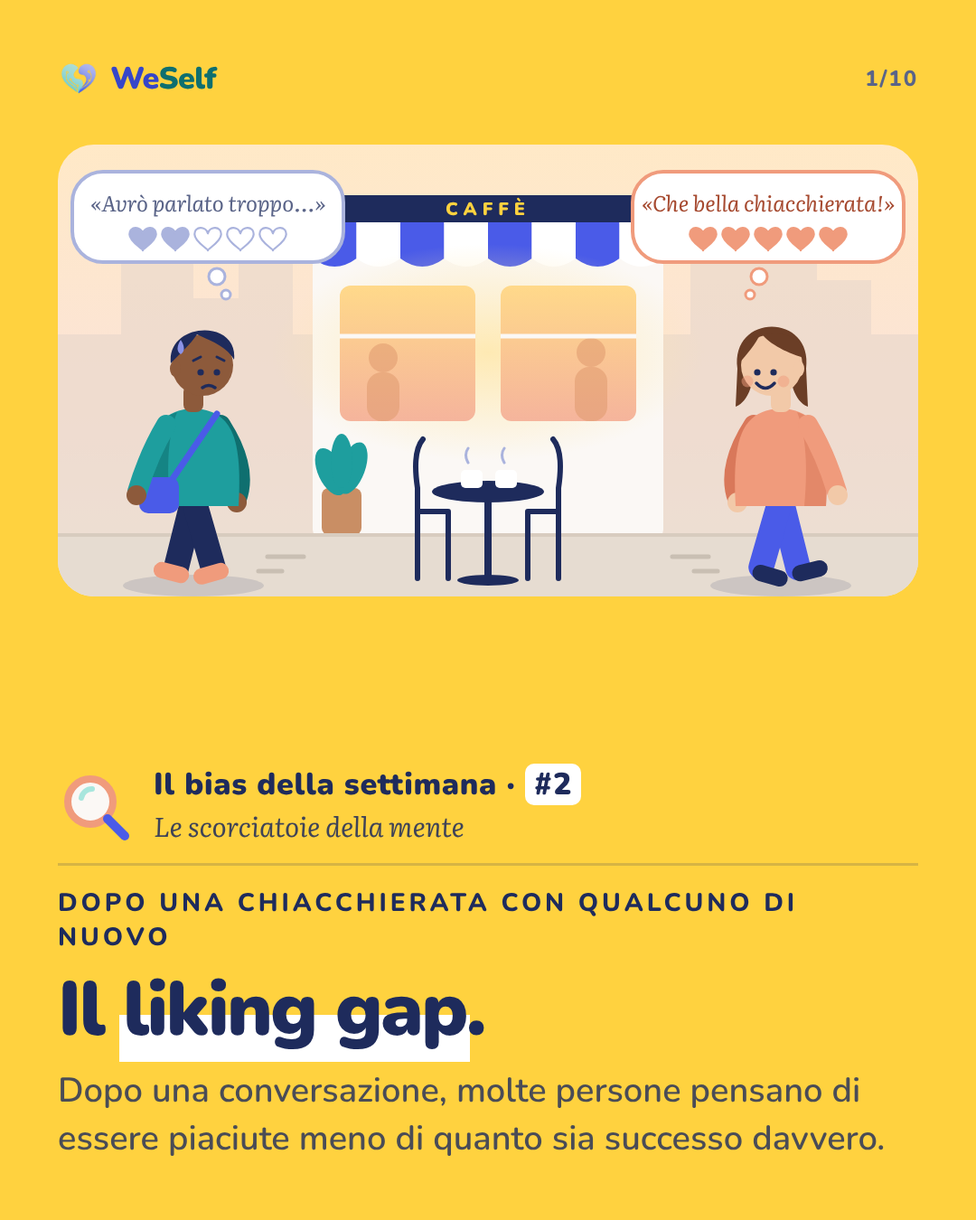
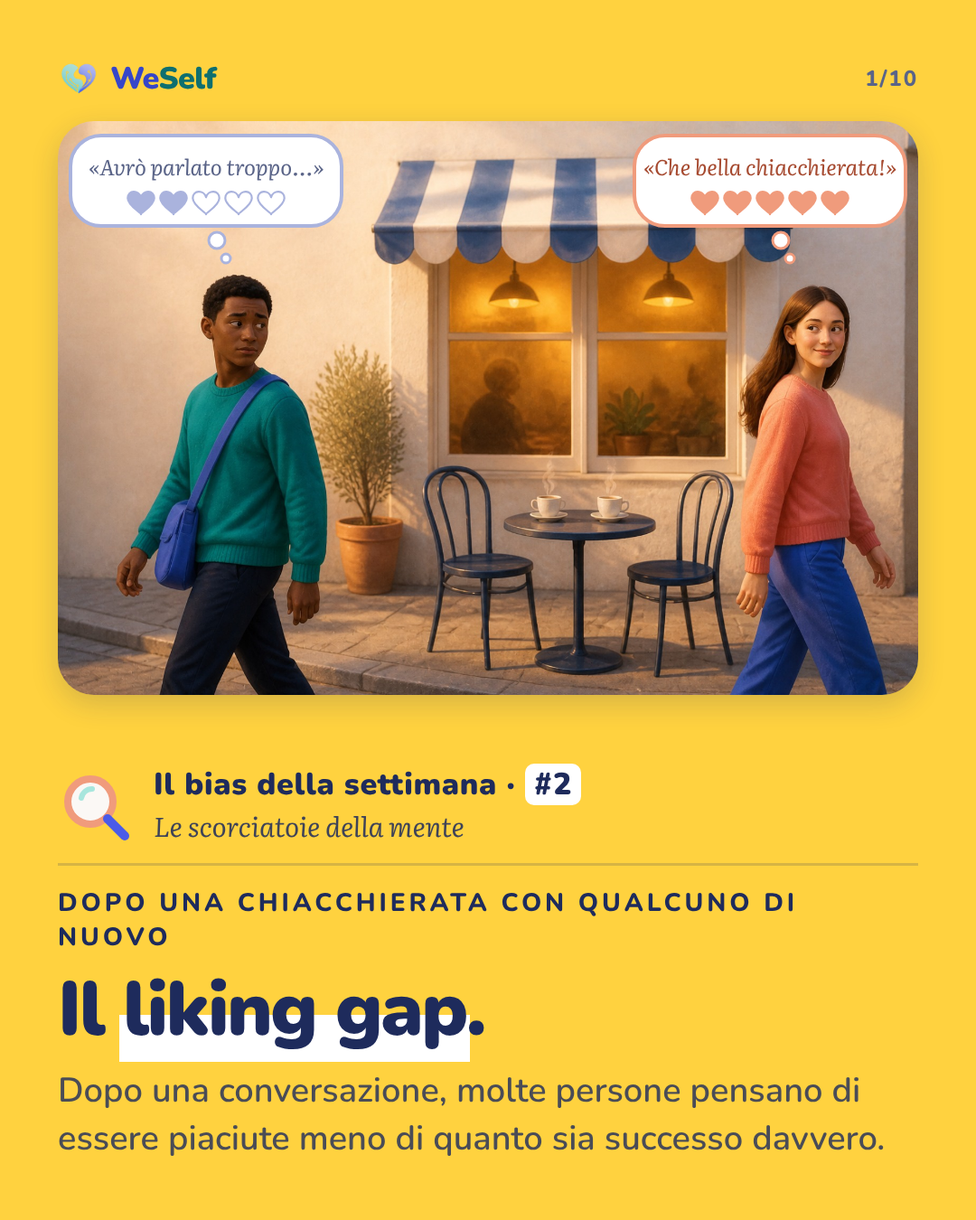
Bias #2: realistic cover illustration drawn with Canva, AI-label note in kit
Claude-Session: https://claude.ai/code/session_01KYQeP73Zvn8PeP6zhkL2Sc

diff --git a/carosselli/bias-02-liking-gap/slides.html b/carosselli/bias-02-liking-gap/slides.html
@@ -179,16 +179,14 @@ Inner slides: <div class="top"><p class="ep">LENS-small Bias #1 · Titolo sezion
 .vs p{font-family:'Literata',serif;font-style:italic;font-size:29px;line-height:1.35}
 .vs .me{background:var(--coral-soft)}.vs .me small{color:var(--coral-text)}
 .vs .you{background:var(--teal-soft)}.vs .you small{color:var(--teal-text)}
+.ill{position:relative;margin-top:24px;align-self:center;width:952px;height:635px;border-radius:40px;overflow:hidden;box-shadow:0 10px 30px rgba(30,43,92,.18)}
+.ill img{width:100%;height:100%;object-fit:cover;display:block}
+.ill svg{position:absolute;left:0;top:0}
 </style>
 
 <section class="slide biascover" id="s1">
   <div class="top"><div class="brand"><img src="weself-mark.png"><span><span class="we">We</span><span class="self">Self</span></span></div><div class="count">1/10</div></div>
-  <svg width="952" height="600" viewBox="0 0 952 600" style="display:block;margin-top:10px;align-self:center"><defs>
-<linearGradient id="lk-sky" x1="0" y1="0" x2="0" y2="1"><stop offset="0" stop-color="#FFE9C7"/><stop offset=".6" stop-color="#FBE3D8"/><stop offset="1" stop-color="#F3EEE8"/></linearGradient>
-<linearGradient id="lk-win" x1="0" y1="0" x2="0" y2="1"><stop offset="0" stop-color="#FFD98A"/><stop offset="1" stop-color="#F5B49C"/></linearGradient>
-<radialGradient id="lk-glow" cx=".5" cy=".5" r=".5"><stop offset="0" stop-color="#FFE7A8" stop-opacity=".85"/><stop offset="1" stop-color="#FFE7A8" stop-opacity="0"/></radialGradient>
-<clipPath id="lk-card"><rect x="0" y="40" width="952" height="500" rx="40"/></clipPath>
-</defs><g clip-path="url(#lk-card)"><rect x="0" y="40" width="952" height="500" fill="url(#lk-sky)"/><path d="M0 250 H70 V170 H150 V210 H200 V140 H260 V250 H952 V540 H0Z" fill="#EAD9CC" opacity=".7"/><path d="M700 250 V160 H770 V120 H840 V190 H900 V250Z" fill="#EAD9CC" opacity=".7"/><rect x="282" y="96" width="388" height="380" rx="10" fill="#FBF8F5"/><rect x="282" y="96" width="388" height="30" fill="#1E2B5C"/><text x="476" y="118" text-anchor="middle" font-family="Nunito" font-weight="900" font-size="20" fill="#FFD23F" letter-spacing="6">CAFFÈ</text><path d="M282.0 126 h48.5 v40 q-24.25 18 -48.5 0z" fill="#4A5BE8"/><path d="M330.5 126 h48.5 v40 q-24.25 18 -48.5 0z" fill="#FFFFFF"/><path d="M379.0 126 h48.5 v40 q-24.25 18 -48.5 0z" fill="#4A5BE8"/><path d="M427.5 126 h48.5 v40 q-24.25 18 -48.5 0z" fill="#FFFFFF"/><path d="M476.0 126 h48.5 v40 q-24.25 18 -48.5 0z" fill="#4A5BE8"/><path d="M524.5 126 h48.5 v40 q-24.25 18 -48.5 0z" fill="#FFFFFF"/><path d="M573.0 126 h48.5 v40 q-24.25 18 -48.5 0z" fill="#4A5BE8"/><path d="M621.5 126 h48.5 v40 q-24.25 18 -48.5 0z" fill="#FFFFFF"/><ellipse cx="476" cy="270" rx="240" ry="120" fill="url(#lk-glow)"/><rect x="312" y="196" width="150" height="150" rx="12" fill="url(#lk-win)"/><rect x="490" y="196" width="150" height="150" rx="12" fill="url(#lk-win)"/><g fill="#E09A6E" opacity=".55"><circle cx="360" cy="276" r="16"/><rect x="342" y="292" width="36" height="54" rx="16"/><circle cx="590" cy="270" r="16"/><rect x="572" y="286" width="36" height="60" rx="16"/></g><path d="M312 252 H462 M490 252 H640" stroke="#FBF8F5" stroke-width="5"/><rect x="292" y="420" width="44" height="52" rx="8" fill="#C98E64"/><g fill="#1E9E9E"><ellipse cx="302" cy="402" rx="14" ry="28" transform="rotate(-25 302 402)"/><ellipse cx="326" cy="398" rx="14" ry="30" transform="rotate(20 326 398)"/><ellipse cx="314" cy="390" rx="12" ry="30"/></g><rect x="0" y="472" width="952" height="70" fill="#E6DCD1"/><path d="M0 472 H952" stroke="#D8CCBF" stroke-width="4"/><g stroke="#1E2B5C" stroke-width="6" fill="none" stroke-linecap="round"><path d="M398 420 v100 M398 446 h34 M432 446 v74 M398 420 q-6 -40 6 -54"/><path d="M554 420 v100 M554 446 h-34 M520 446 v74 M554 420 q6 -40 -6 -54"/></g><ellipse cx="476" cy="424" rx="62" ry="12" fill="#1E2B5C"/><rect x="472" y="424" width="8" height="96" fill="#1E2B5C"/><ellipse cx="476" cy="522" rx="34" ry="6" fill="#1E2B5C"/><rect x="446" y="400" width="24" height="20" rx="5" fill="#FFFFFF"/><rect x="484" y="400" width="24" height="20" rx="5" fill="#FFFFFF"/><path d="M454 392 q-5 -9 0 -16 M494 392 q-5 -9 0 -16" fill="none" stroke="#AAB3DD" stroke-width="3" stroke-linecap="round"/><path d="M232 496 h40 M222 512 h26" stroke="#C9BFB3" stroke-width="5" stroke-linecap="round"/><path d="M720 496 h-40 M730 512 h-26" stroke="#C9BFB3" stroke-width="5" stroke-linecap="round"/><ellipse cx="150" cy="528" rx="78" ry="12" fill="#1E2B5C" opacity=".13"/><g transform="rotate(14 150 432)"><rect x="136" y="430" width="28" height="94" rx="13" fill="#1E2B5C"/><rect x="126" y="508" width="40" height="18" rx="9" fill="#F09B7C"/></g><g transform="rotate(-16 150 432)"><rect x="136" y="430" width="28" height="94" rx="13" fill="#1E2B5C"/><rect x="126" y="508" width="40" height="18" rx="9" fill="#F09B7C"/></g><path d="M180 350 C202 384 206 410 198 432" fill="none" stroke="#0F6F6F" stroke-width="22" stroke-linecap="round"/><circle cx="198" cy="436" r="11" fill="#8D5A3B"/><path d="M100 440 C96 366 106 334 150 332 C194 334 204 366 200 440 Z" fill="#1E9E9E"/><path d="M132 336 C104 344 96 380 100 440 L124 440 C120 396 122 360 132 336Z" fill="#0F6F6F" opacity=".55"/><path d="M176 338 L120 420" stroke="#4A5BE8" stroke-width="7" stroke-linecap="round"/><rect x="90" y="408" width="44" height="40" rx="10" fill="#4A5BE8"/><path d="M120 350 C102 380 94 404 88 424" fill="none" stroke="#1E9E9E" stroke-width="22" stroke-linecap="round"/><circle cx="87" cy="428" r="11" fill="#8D5A3B"/><rect x="139" y="306" width="22" height="30" rx="8" fill="#8D5A3B"/><circle cx="160" cy="284" r="34" fill="#8D5A3B"/><ellipse cx="130" cy="288" rx="6" ry="9" fill="#8D5A3B"/><path d="M125 282 C120 236 200 232 195 278 C186 262 166 256 154 250 C146 262 136 270 125 282Z" fill="#1E2B5C"/><circle cx="158" cy="292" r="3.6" fill="#1E2B5C"/><circle cx="176" cy="292" r="3.6" fill="#1E2B5C"/><path d="M150 279 l8 -4 M184 279 l-8 -4" stroke="#1E2B5C" stroke-width="3" stroke-linecap="round"/><path d="M160 309 q7 -5 14 0" fill="none" stroke="#1E2B5C" stroke-width="3.5" stroke-linecap="round"/><path d="M136 256 q7 11 0 16 q-7 -5 0 -16z" fill="#8B93E8"/><ellipse cx="800" cy="528" rx="78" ry="12" fill="#1E2B5C" opacity=".13"/><g transform="rotate(-14 800 432)"><rect x="786" y="430" width="28" height="94" rx="13" fill="#4A5BE8"/><rect x="792" y="508" width="40" height="18" rx="9" fill="#1E2B5C"/></g><g transform="rotate(16 800 432)"><rect x="786" y="430" width="28" height="94" rx="13" fill="#4A5BE8"/><rect x="792" y="508" width="40" height="18" rx="9" fill="#1E2B5C"/></g><path d="M770 350 C748 384 744 410 752 432" fill="none" stroke="#D9785A" stroke-width="22" stroke-linecap="round"/><circle cx="752" cy="436" r="11" fill="#F2C9A8"/><path d="M750 440 C746 366 756 334 800 332 C844 334 854 366 850 440 Z" fill="#F09B7C"/><path d="M818 336 C846 344 854 380 850 440 L826 440 C830 396 828 360 818 336Z" fill="#D9785A" opacity=".55"/><path d="M830 350 C848 380 856 404 862 424" fill="none" stroke="#F09B7C" stroke-width="22" stroke-linecap="round"/><circle cx="863" cy="428" r="11" fill="#F2C9A8"/><rect x="789" y="306" width="22" height="30" rx="8" fill="#F2C9A8"/><path d="M752 288 C744 226 836 226 828 288 L830 330 C814 324 810 300 808 280 L772 280 C770 300 766 324 750 330 Z" fill="#6B3E26"/><circle cx="790" cy="284" r="34" fill="#F2C9A8"/><ellipse cx="820" cy="288" rx="6" ry="9" fill="#F2C9A8"/><path d="M754 282 C754 240 826 238 826 276 C804 270 784 258 778 248 C772 262 762 272 754 282Z" fill="#6B3E26"/><circle cx="774" cy="292" r="3.6" fill="#1E2B5C"/><circle cx="792" cy="292" r="3.6" fill="#1E2B5C"/><path d="M773 304 q10 11 20 0" fill="none" stroke="#1E2B5C" stroke-width="3.5" stroke-linecap="round"/><circle cx="763" cy="302" r="6.5" fill="#F09B7C" opacity=".5"/><circle cx="803" cy="302" r="6.5" fill="#F09B7C" opacity=".5"/></g><g><rect x="16" y="70" width="300" height="100" rx="34" fill="#FFFFFF" stroke="#AAB3DD" stroke-width="4"/><text x="166.0" y="114" text-anchor="middle" font-family="Literata" font-style="italic" font-size="24" fill="#5A6488">«Avrò parlato troppo…»</text><path transform="translate(94.0 132) scale(1.05)" d="M0 6 C-2 -2 -14 -2 -14 7 C-14 15 0 22 0 24 C0 22 14 15 14 7 C14 -2 2 -2 0 6Z" fill="#AAB3DD" stroke="#AAB3DD" stroke-width="2.10" stroke-linejoin="round"/><path transform="translate(130.0 132) scale(1.05)" d="M0 6 C-2 -2 -14 -2 -14 7 C-14 15 0 22 0 24 C0 22 14 15 14 7 C14 -2 2 -2 0 6Z" fill="#AAB3DD" stroke="#AAB3DD" stroke-width="2.10" stroke-linejoin="round"/><path transform="translate(166.0 132) scale(1.05)" d="M0 6 C-2 -2 -14 -2 -14 7 C-14 15 0 22 0 24 C0 22 14 15 14 7 C14 -2 2 -2 0 6Z" fill="#FFFFFF" stroke="#AAB3DD" stroke-width="2.10" stroke-linejoin="round"/><path transform="translate(202.0 132) scale(1.05)" d="M0 6 C-2 -2 -14 -2 -14 7 C-14 15 0 22 0 24 C0 22 14 15 14 7 C14 -2 2 -2 0 6Z" fill="#FFFFFF" stroke="#AAB3DD" stroke-width="2.10" stroke-linejoin="round"/><path transform="translate(238.0 132) scale(1.05)" d="M0 6 C-2 -2 -14 -2 -14 7 C-14 15 0 22 0 24 C0 22 14 15 14 7 C14 -2 2 -2 0 6Z" fill="#FFFFFF" stroke="#AAB3DD" stroke-width="2.10" stroke-linejoin="round"/><circle cx="176" cy="186" r="9" fill="#FFFFFF" stroke="#AAB3DD" stroke-width="3"/><circle cx="186" cy="206" r="5" fill="#FFFFFF" stroke="#AAB3DD" stroke-width="3"/></g><g><rect x="636" y="70" width="300" height="100" rx="34" fill="#FFFFFF" stroke="#F09B7C" stroke-width="4"/><text x="786.0" y="114" text-anchor="middle" font-family="Literata" font-style="italic" font-size="24" fill="#A64A30">«Che bella chiacchierata!»</text><path transform="translate(714.0 132) scale(1.05)" d="M0 6 C-2 -2 -14 -2 -14 7 C-14 15 0 22 0 24 C0 22 14 15 14 7 C14 -2 2 -2 0 6Z" fill="#F09B7C" stroke="#F09B7C" stroke-width="2.10" stroke-linejoin="round"/><path transform="translate(750.0 132) scale(1.05)" d="M0 6 C-2 -2 -14 -2 -14 7 C-14 15 0 22 0 24 C0 22 14 15 14 7 C14 -2 2 -2 0 6Z" fill="#F09B7C" stroke="#F09B7C" stroke-width="2.10" stroke-linejoin="round"/><path transform="translate(786.0 132) scale(1.05)" d="M0 6 C-2 -2 -14 -2 -14 7 C-14 15 0 22 0 24 C0 22 14 15 14 7 C14 -2 2 -2 0 6Z" fill="#F09B7C" stroke="#F09B7C" stroke-width="2.10" stroke-linejoin="round"/><path transform="translate(822.0 132) scale(1.05)" d="M0 6 C-2 -2 -14 -2 -14 7 C-14 15 0 22 0 24 C0 22 14 15 14 7 C14 -2 2 -2 0 6Z" fill="#F09B7C" stroke="#F09B7C" stroke-width="2.10" stroke-linejoin="round"/><path transform="translate(858.0 132) scale(1.05)" d="M0 6 C-2 -2 -14 -2 -14 7 C-14 15 0 22 0 24 C0 22 14 15 14 7 C14 -2 2 -2 0 6Z" fill="#F09B7C" stroke="#F09B7C" stroke-width="2.10" stroke-linejoin="round"/><circle cx="776" cy="186" r="9" fill="#FFFFFF" stroke="#F09B7C" stroke-width="3"/><circle cx="766" cy="206" r="5" fill="#FFFFFF" stroke="#F09B7C" stroke-width="3"/></g></svg>
+  <div class="ill"><img src="illustrazione-canva.jpg" alt=""><svg width="952" height="635" viewBox="0 0 952 635"><g><rect x="14" y="16" width="300" height="100" rx="34" fill="#FFFFFF" stroke="#AAB3DD" stroke-width="4"/><text x="164.0" y="60" text-anchor="middle" font-family="Literata" font-style="italic" font-size="24" fill="#5A6488">«Avrò parlato troppo…»</text><path transform="translate(92.0 78) scale(1.05)" d="M0 6 C-2 -2 -14 -2 -14 7 C-14 15 0 22 0 24 C0 22 14 15 14 7 C14 -2 2 -2 0 6Z" fill="#AAB3DD" stroke="#AAB3DD" stroke-width="2.10" stroke-linejoin="round"/><path transform="translate(128.0 78) scale(1.05)" d="M0 6 C-2 -2 -14 -2 -14 7 C-14 15 0 22 0 24 C0 22 14 15 14 7 C14 -2 2 -2 0 6Z" fill="#AAB3DD" stroke="#AAB3DD" stroke-width="2.10" stroke-linejoin="round"/><path transform="translate(164.0 78) scale(1.05)" d="M0 6 C-2 -2 -14 -2 -14 7 C-14 15 0 22 0 24 C0 22 14 15 14 7 C14 -2 2 -2 0 6Z" fill="#FFFFFF" stroke="#AAB3DD" stroke-width="2.10" stroke-linejoin="round"/><path transform="translate(200.0 78) scale(1.05)" d="M0 6 C-2 -2 -14 -2 -14 7 C-14 15 0 22 0 24 C0 22 14 15 14 7 C14 -2 2 -2 0 6Z" fill="#FFFFFF" stroke="#AAB3DD" stroke-width="2.10" stroke-linejoin="round"/><path transform="translate(236.0 78) scale(1.05)" d="M0 6 C-2 -2 -14 -2 -14 7 C-14 15 0 22 0 24 C0 22 14 15 14 7 C14 -2 2 -2 0 6Z" fill="#FFFFFF" stroke="#AAB3DD" stroke-width="2.10" stroke-linejoin="round"/><circle cx="176" cy="132" r="9" fill="#FFFFFF" stroke="#AAB3DD" stroke-width="3"/><circle cx="186" cy="152" r="5" fill="#FFFFFF" stroke="#AAB3DD" stroke-width="3"/></g><g><rect x="638" y="16" width="300" height="100" rx="34" fill="#FFFFFF" stroke="#F09B7C" stroke-width="4"/><text x="788.0" y="60" text-anchor="middle" font-family="Literata" font-style="italic" font-size="24" fill="#A64A30">«Che bella chiacchierata!»</text><path transform="translate(716.0 78) scale(1.05)" d="M0 6 C-2 -2 -14 -2 -14 7 C-14 15 0 22 0 24 C0 22 14 15 14 7 C14 -2 2 -2 0 6Z" fill="#F09B7C" stroke="#F09B7C" stroke-width="2.10" stroke-linejoin="round"/><path transform="translate(752.0 78) scale(1.05)" d="M0 6 C-2 -2 -14 -2 -14 7 C-14 15 0 22 0 24 C0 22 14 15 14 7 C14 -2 2 -2 0 6Z" fill="#F09B7C" stroke="#F09B7C" stroke-width="2.10" stroke-linejoin="round"/><path transform="translate(788.0 78) scale(1.05)" d="M0 6 C-2 -2 -14 -2 -14 7 C-14 15 0 22 0 24 C0 22 14 15 14 7 C14 -2 2 -2 0 6Z" fill="#F09B7C" stroke="#F09B7C" stroke-width="2.10" stroke-linejoin="round"/><path transform="translate(824.0 78) scale(1.05)" d="M0 6 C-2 -2 -14 -2 -14 7 C-14 15 0 22 0 24 C0 22 14 15 14 7 C14 -2 2 -2 0 6Z" fill="#F09B7C" stroke="#F09B7C" stroke-width="2.10" stroke-linejoin="round"/><path transform="translate(860.0 78) scale(1.05)" d="M0 6 C-2 -2 -14 -2 -14 7 C-14 15 0 22 0 24 C0 22 14 15 14 7 C14 -2 2 -2 0 6Z" fill="#F09B7C" stroke="#F09B7C" stroke-width="2.10" stroke-linejoin="round"/><circle cx="800" cy="132" r="9" fill="#FFFFFF" stroke="#F09B7C" stroke-width="3"/><circle cx="810" cy="152" r="5" fill="#FFFFFF" stroke="#F09B7C" stroke-width="3"/></g></svg></div>
   <div style="margin-top:auto;gap:22px" class="stack">
     <div class="rub"><svg class="lens" viewBox="0 0 84 84"><circle cx="36" cy="36" r="25" fill="#FBF8F5" stroke="#F09B7C" stroke-width="8"/><path d="M26 32 a12 12 0 0 1 12 -10" fill="none" stroke="#A8E6DD" stroke-width="6" stroke-linecap="round"/><line x1="55" y1="55" x2="74" y2="74" stroke="#4A5BE8" stroke-width="10" stroke-linecap="round"/></svg><div class="rt"><span class="rn">Il bias della settimana · <em>#2</em></span><span class="rs">Le scorciatoie della mente</span></div></div>
     <p class="occ">Dopo una chiacchierata con qualcuno di nuovo</p>

diff --git a/carosselli/bias-02-liking-gap/body.html b/carosselli/bias-02-liking-gap/body.html
@@ -44,16 +44,14 @@
 .vs p{font-family:'Literata',serif;font-style:italic;font-size:29px;line-height:1.35}
 .vs .me{background:var(--coral-soft)}.vs .me small{color:var(--coral-text)}
 .vs .you{background:var(--teal-soft)}.vs .you small{color:var(--teal-text)}
+.ill{position:relative;margin-top:24px;align-self:center;width:952px;height:635px;border-radius:40px;overflow:hidden;box-shadow:0 10px 30px rgba(30,43,92,.18)}
+.ill img{width:100%;height:100%;object-fit:cover;display:block}
+.ill svg{position:absolute;left:0;top:0}
 </style>
 
 <section class="slide biascover" id="s1">
   <div class="top"><div class="brand"><img src="weself-mark.png"><span><span class="we">We</span><span class="self">Self</span></span></div><div class="count">1/10</div></div>
-  <svg width="952" height="600" viewBox="0 0 952 600" style="display:block;margin-top:10px;align-self:center"><defs>
-<linearGradient id="lk-sky" x1="0" y1="0" x2="0" y2="1"><stop offset="0" stop-color="#FFE9C7"/><stop offset=".6" stop-color="#FBE3D8"/><stop offset="1" stop-color="#F3EEE8"/></linearGradient>
-<linearGradient id="lk-win" x1="0" y1="0" x2="0" y2="1"><stop offset="0" stop-color="#FFD98A"/><stop offset="1" stop-color="#F5B49C"/></linearGradient>
-<radialGradient id="lk-glow" cx=".5" cy=".5" r=".5"><stop offset="0" stop-color="#FFE7A8" stop-opacity=".85"/><stop offset="1" stop-color="#FFE7A8" stop-opacity="0"/></radialGradient>
-<clipPath id="lk-card"><rect x="0" y="40" width="952" height="500" rx="40"/></clipPath>
-</defs><g clip-path="url(#lk-card)"><rect x="0" y="40" width="952" height="500" fill="url(#lk-sky)"/><path d="M0 250 H70 V170 H150 V210 H200 V140 H260 V250 H952 V540 H0Z" fill="#EAD9CC" opacity=".7"/><path d="M700 250 V160 H770 V120 H840 V190 H900 V250Z" fill="#EAD9CC" opacity=".7"/><rect x="282" y="96" width="388" height="380" rx="10" fill="#FBF8F5"/><rect x="282" y="96" width="388" height="30" fill="#1E2B5C"/><text x="476" y="118" text-anchor="middle" font-family="Nunito" font-weight="900" font-size="20" fill="#FFD23F" letter-spacing="6">CAFFÈ</text><path d="M282.0 126 h48.5 v40 q-24.25 18 -48.5 0z" fill="#4A5BE8"/><path d="M330.5 126 h48.5 v40 q-24.25 18 -48.5 0z" fill="#FFFFFF"/><path d="M379.0 126 h48.5 v40 q-24.25 18 -48.5 0z" fill="#4A5BE8"/><path d="M427.5 126 h48.5 v40 q-24.25 18 -48.5 0z" fill="#FFFFFF"/><path d="M476.0 126 h48.5 v40 q-24.25 18 -48.5 0z" fill="#4A5BE8"/><path d="M524.5 126 h48.5 v40 q-24.25 18 -48.5 0z" fill="#FFFFFF"/><path d="M573.0 126 h48.5 v40 q-24.25 18 -48.5 0z" fill="#4A5BE8"/><path d="M621.5 126 h48.5 v40 q-24.25 18 -48.5 0z" fill="#FFFFFF"/><ellipse cx="476" cy="270" rx="240" ry="120" fill="url(#lk-glow)"/><rect x="312" y="196" width="150" height="150" rx="12" fill="url(#lk-win)"/><rect x="490" y="196" width="150" height="150" rx="12" fill="url(#lk-win)"/><g fill="#E09A6E" opacity=".55"><circle cx="360" cy="276" r="16"/><rect x="342" y="292" width="36" height="54" rx="16"/><circle cx="590" cy="270" r="16"/><rect x="572" y="286" width="36" height="60" rx="16"/></g><path d="M312 252 H462 M490 252 H640" stroke="#FBF8F5" stroke-width="5"/><rect x="292" y="420" width="44" height="52" rx="8" fill="#C98E64"/><g fill="#1E9E9E"><ellipse cx="302" cy="402" rx="14" ry="28" transform="rotate(-25 302 402)"/><ellipse cx="326" cy="398" rx="14" ry="30" transform="rotate(20 326 398)"/><ellipse cx="314" cy="390" rx="12" ry="30"/></g><rect x="0" y="472" width="952" height="70" fill="#E6DCD1"/><path d="M0 472 H952" stroke="#D8CCBF" stroke-width="4"/><g stroke="#1E2B5C" stroke-width="6" fill="none" stroke-linecap="round"><path d="M398 420 v100 M398 446 h34 M432 446 v74 M398 420 q-6 -40 6 -54"/><path d="M554 420 v100 M554 446 h-34 M520 446 v74 M554 420 q6 -40 -6 -54"/></g><ellipse cx="476" cy="424" rx="62" ry="12" fill="#1E2B5C"/><rect x="472" y="424" width="8" height="96" fill="#1E2B5C"/><ellipse cx="476" cy="522" rx="34" ry="6" fill="#1E2B5C"/><rect x="446" y="400" width="24" height="20" rx="5" fill="#FFFFFF"/><rect x="484" y="400" width="24" height="20" rx="5" fill="#FFFFFF"/><path d="M454 392 q-5 -9 0 -16 M494 392 q-5 -9 0 -16" fill="none" stroke="#AAB3DD" stroke-width="3" stroke-linecap="round"/><path d="M232 496 h40 M222 512 h26" stroke="#C9BFB3" stroke-width="5" stroke-linecap="round"/><path d="M720 496 h-40 M730 512 h-26" stroke="#C9BFB3" stroke-width="5" stroke-linecap="round"/><ellipse cx="150" cy="528" rx="78" ry="12" fill="#1E2B5C" opacity=".13"/><g transform="rotate(14 150 432)"><rect x="136" y="430" width="28" height="94" rx="13" fill="#1E2B5C"/><rect x="126" y="508" width="40" height="18" rx="9" fill="#F09B7C"/></g><g transform="rotate(-16 150 432)"><rect x="136" y="430" width="28" height="94" rx="13" fill="#1E2B5C"/><rect x="126" y="508" width="40" height="18" rx="9" fill="#F09B7C"/></g><path d="M180 350 C202 384 206 410 198 432" fill="none" stroke="#0F6F6F" stroke-width="22" stroke-linecap="round"/><circle cx="198" cy="436" r="11" fill="#8D5A3B"/><path d="M100 440 C96 366 106 334 150 332 C194 334 204 366 200 440 Z" fill="#1E9E9E"/><path d="M132 336 C104 344 96 380 100 440 L124 440 C120 396 122 360 132 336Z" fill="#0F6F6F" opacity=".55"/><path d="M176 338 L120 420" stroke="#4A5BE8" stroke-width="7" stroke-linecap="round"/><rect x="90" y="408" width="44" height="40" rx="10" fill="#4A5BE8"/><path d="M120 350 C102 380 94 404 88 424" fill="none" stroke="#1E9E9E" stroke-width="22" stroke-linecap="round"/><circle cx="87" cy="428" r="11" fill="#8D5A3B"/><rect x="139" y="306" width="22" height="30" rx="8" fill="#8D5A3B"/><circle cx="160" cy="284" r="34" fill="#8D5A3B"/><ellipse cx="130" cy="288" rx="6" ry="9" fill="#8D5A3B"/><path d="M125 282 C120 236 200 232 195 278 C186 262 166 256 154 250 C146 262 136 270 125 282Z" fill="#1E2B5C"/><circle cx="158" cy="292" r="3.6" fill="#1E2B5C"/><circle cx="176" cy="292" r="3.6" fill="#1E2B5C"/><path d="M150 279 l8 -4 M184 279 l-8 -4" stroke="#1E2B5C" stroke-width="3" stroke-linecap="round"/><path d="M160 309 q7 -5 14 0" fill="none" stroke="#1E2B5C" stroke-width="3.5" stroke-linecap="round"/><path d="M136 256 q7 11 0 16 q-7 -5 0 -16z" fill="#8B93E8"/><ellipse cx="800" cy="528" rx="78" ry="12" fill="#1E2B5C" opacity=".13"/><g transform="rotate(-14 800 432)"><rect x="786" y="430" width="28" height="94" rx="13" fill="#4A5BE8"/><rect x="792" y="508" width="40" height="18" rx="9" fill="#1E2B5C"/></g><g transform="rotate(16 800 432)"><rect x="786" y="430" width="28" height="94" rx="13" fill="#4A5BE8"/><rect x="792" y="508" width="40" height="18" rx="9" fill="#1E2B5C"/></g><path d="M770 350 C748 384 744 410 752 432" fill="none" stroke="#D9785A" stroke-width="22" stroke-linecap="round"/><circle cx="752" cy="436" r="11" fill="#F2C9A8"/><path d="M750 440 C746 366 756 334 800 332 C844 334 854 366 850 440 Z" fill="#F09B7C"/><path d="M818 336 C846 344 854 380 850 440 L826 440 C830 396 828 360 818 336Z" fill="#D9785A" opacity=".55"/><path d="M830 350 C848 380 856 404 862 424" fill="none" stroke="#F09B7C" stroke-width="22" stroke-linecap="round"/><circle cx="863" cy="428" r="11" fill="#F2C9A8"/><rect x="789" y="306" width="22" height="30" rx="8" fill="#F2C9A8"/><path d="M752 288 C744 226 836 226 828 288 L830 330 C814 324 810 300 808 280 L772 280 C770 300 766 324 750 330 Z" fill="#6B3E26"/><circle cx="790" cy="284" r="34" fill="#F2C9A8"/><ellipse cx="820" cy="288" rx="6" ry="9" fill="#F2C9A8"/><path d="M754 282 C754 240 826 238 826 276 C804 270 784 258 778 248 C772 262 762 272 754 282Z" fill="#6B3E26"/><circle cx="774" cy="292" r="3.6" fill="#1E2B5C"/><circle cx="792" cy="292" r="3.6" fill="#1E2B5C"/><path d="M773 304 q10 11 20 0" fill="none" stroke="#1E2B5C" stroke-width="3.5" stroke-linecap="round"/><circle cx="763" cy="302" r="6.5" fill="#F09B7C" opacity=".5"/><circle cx="803" cy="302" r="6.5" fill="#F09B7C" opacity=".5"/></g><g><rect x="16" y="70" width="300" height="100" rx="34" fill="#FFFFFF" stroke="#AAB3DD" stroke-width="4"/><text x="166.0" y="114" text-anchor="middle" font-family="Literata" font-style="italic" font-size="24" fill="#5A6488">«Avrò parlato troppo…»</text><path transform="translate(94.0 132) scale(1.05)" d="M0 6 C-2 -2 -14 -2 -14 7 C-14 15 0 22 0 24 C0 22 14 15 14 7 C14 -2 2 -2 0 6Z" fill="#AAB3DD" stroke="#AAB3DD" stroke-width="2.10" stroke-linejoin="round"/><path transform="translate(130.0 132) scale(1.05)" d="M0 6 C-2 -2 -14 -2 -14 7 C-14 15 0 22 0 24 C0 22 14 15 14 7 C14 -2 2 -2 0 6Z" fill="#AAB3DD" stroke="#AAB3DD" stroke-width="2.10" stroke-linejoin="round"/><path transform="translate(166.0 132) scale(1.05)" d="M0 6 C-2 -2 -14 -2 -14 7 C-14 15 0 22 0 24 C0 22 14 15 14 7 C14 -2 2 -2 0 6Z" fill="#FFFFFF" stroke="#AAB3DD" stroke-width="2.10" stroke-linejoin="round"/><path transform="translate(202.0 132) scale(1.05)" d="M0 6 C-2 -2 -14 -2 -14 7 C-14 15 0 22 0 24 C0 22 14 15 14 7 C14 -2 2 -2 0 6Z" fill="#FFFFFF" stroke="#AAB3DD" stroke-width="2.10" stroke-linejoin="round"/><path transform="translate(238.0 132) scale(1.05)" d="M0 6 C-2 -2 -14 -2 -14 7 C-14 15 0 22 0 24 C0 22 14 15 14 7 C14 -2 2 -2 0 6Z" fill="#FFFFFF" stroke="#AAB3DD" stroke-width="2.10" stroke-linejoin="round"/><circle cx="176" cy="186" r="9" fill="#FFFFFF" stroke="#AAB3DD" stroke-width="3"/><circle cx="186" cy="206" r="5" fill="#FFFFFF" stroke="#AAB3DD" stroke-width="3"/></g><g><rect x="636" y="70" width="300" height="100" rx="34" fill="#FFFFFF" stroke="#F09B7C" stroke-width="4"/><text x="786.0" y="114" text-anchor="middle" font-family="Literata" font-style="italic" font-size="24" fill="#A64A30">«Che bella chiacchierata!»</text><path transform="translate(714.0 132) scale(1.05)" d="M0 6 C-2 -2 -14 -2 -14 7 C-14 15 0 22 0 24 C0 22 14 15 14 7 C14 -2 2 -2 0 6Z" fill="#F09B7C" stroke="#F09B7C" stroke-width="2.10" stroke-linejoin="round"/><path transform="translate(750.0 132) scale(1.05)" d="M0 6 C-2 -2 -14 -2 -14 7 C-14 15 0 22 0 24 C0 22 14 15 14 7 C14 -2 2 -2 0 6Z" fill="#F09B7C" stroke="#F09B7C" stroke-width="2.10" stroke-linejoin="round"/><path transform="translate(786.0 132) scale(1.05)" d="M0 6 C-2 -2 -14 -2 -14 7 C-14 15 0 22 0 24 C0 22 14 15 14 7 C14 -2 2 -2 0 6Z" fill="#F09B7C" stroke="#F09B7C" stroke-width="2.10" stroke-linejoin="round"/><path transform="translate(822.0 132) scale(1.05)" d="M0 6 C-2 -2 -14 -2 -14 7 C-14 15 0 22 0 24 C0 22 14 15 14 7 C14 -2 2 -2 0 6Z" fill="#F09B7C" stroke="#F09B7C" stroke-width="2.10" stroke-linejoin="round"/><path transform="translate(858.0 132) scale(1.05)" d="M0 6 C-2 -2 -14 -2 -14 7 C-14 15 0 22 0 24 C0 22 14 15 14 7 C14 -2 2 -2 0 6Z" fill="#F09B7C" stroke="#F09B7C" stroke-width="2.10" stroke-linejoin="round"/><circle cx="776" cy="186" r="9" fill="#FFFFFF" stroke="#F09B7C" stroke-width="3"/><circle cx="766" cy="206" r="5" fill="#FFFFFF" stroke="#F09B7C" stroke-width="3"/></g></svg>
+  <div class="ill"><img src="illustrazione-canva.jpg" alt=""><svg width="952" height="635" viewBox="0 0 952 635"><g><rect x="14" y="16" width="300" height="100" rx="34" fill="#FFFFFF" stroke="#AAB3DD" stroke-width="4"/><text x="164.0" y="60" text-anchor="middle" font-family="Literata" font-style="italic" font-size="24" fill="#5A6488">«Avrò parlato troppo…»</text><path transform="translate(92.0 78) scale(1.05)" d="M0 6 C-2 -2 -14 -2 -14 7 C-14 15 0 22 0 24 C0 22 14 15 14 7 C14 -2 2 -2 0 6Z" fill="#AAB3DD" stroke="#AAB3DD" stroke-width="2.10" stroke-linejoin="round"/><path transform="translate(128.0 78) scale(1.05)" d="M0 6 C-2 -2 -14 -2 -14 7 C-14 15 0 22 0 24 C0 22 14 15 14 7 C14 -2 2 -2 0 6Z" fill="#AAB3DD" stroke="#AAB3DD" stroke-width="2.10" stroke-linejoin="round"/><path transform="translate(164.0 78) scale(1.05)" d="M0 6 C-2 -2 -14 -2 -14 7 C-14 15 0 22 0 24 C0 22 14 15 14 7 C14 -2 2 -2 0 6Z" fill="#FFFFFF" stroke="#AAB3DD" stroke-width="2.10" stroke-linejoin="round"/><path transform="translate(200.0 78) scale(1.05)" d="M0 6 C-2 -2 -14 -2 -14 7 C-14 15 0 22 0 24 C0 22 14 15 14 7 C14 -2 2 -2 0 6Z" fill="#FFFFFF" stroke="#AAB3DD" stroke-width="2.10" stroke-linejoin="round"/><path transform="translate(236.0 78) scale(1.05)" d="M0 6 C-2 -2 -14 -2 -14 7 C-14 15 0 22 0 24 C0 22 14 15 14 7 C14 -2 2 -2 0 6Z" fill="#FFFFFF" stroke="#AAB3DD" stroke-width="2.10" stroke-linejoin="round"/><circle cx="176" cy="132" r="9" fill="#FFFFFF" stroke="#AAB3DD" stroke-width="3"/><circle cx="186" cy="152" r="5" fill="#FFFFFF" stroke="#AAB3DD" stroke-width="3"/></g><g><rect x="638" y="16" width="300" height="100" rx="34" fill="#FFFFFF" stroke="#F09B7C" stroke-width="4"/><text x="788.0" y="60" text-anchor="middle" font-family="Literata" font-style="italic" font-size="24" fill="#A64A30">«Che bella chiacchierata!»</text><path transform="translate(716.0 78) scale(1.05)" d="M0 6 C-2 -2 -14 -2 -14 7 C-14 15 0 22 0 24 C0 22 14 15 14 7 C14 -2 2 -2 0 6Z" fill="#F09B7C" stroke="#F09B7C" stroke-width="2.10" stroke-linejoin="round"/><path transform="translate(752.0 78) scale(1.05)" d="M0 6 C-2 -2 -14 -2 -14 7 C-14 15 0 22 0 24 C0 22 14 15 14 7 C14 -2 2 -2 0 6Z" fill="#F09B7C" stroke="#F09B7C" stroke-width="2.10" stroke-linejoin="round"/><path transform="translate(788.0 78) scale(1.05)" d="M0 6 C-2 -2 -14 -2 -14 7 C-14 15 0 22 0 24 C0 22 14 15 14 7 C14 -2 2 -2 0 6Z" fill="#F09B7C" stroke="#F09B7C" stroke-width="2.10" stroke-linejoin="round"/><path transform="translate(824.0 78) scale(1.05)" d="M0 6 C-2 -2 -14 -2 -14 7 C-14 15 0 22 0 24 C0 22 14 15 14 7 C14 -2 2 -2 0 6Z" fill="#F09B7C" stroke="#F09B7C" stroke-width="2.10" stroke-linejoin="round"/><path transform="translate(860.0 78) scale(1.05)" d="M0 6 C-2 -2 -14 -2 -14 7 C-14 15 0 22 0 24 C0 22 14 15 14 7 C14 -2 2 -2 0 6Z" fill="#F09B7C" stroke="#F09B7C" stroke-width="2.10" stroke-linejoin="round"/><circle cx="800" cy="132" r="9" fill="#FFFFFF" stroke="#F09B7C" stroke-width="3"/><circle cx="810" cy="152" r="5" fill="#FFFFFF" stroke="#F09B7C" stroke-width="3"/></g></svg></div>
   <div style="margin-top:auto;gap:22px" class="stack">
     <div class="rub"><svg class="lens" viewBox="0 0 84 84"><circle cx="36" cy="36" r="25" fill="#FBF8F5" stroke="#F09B7C" stroke-width="8"/><path d="M26 32 a12 12 0 0 1 12 -10" fill="none" stroke="#A8E6DD" stroke-width="6" stroke-linecap="round"/><line x1="55" y1="55" x2="74" y2="74" stroke="#4A5BE8" stroke-width="10" stroke-linecap="round"/></svg><div class="rt"><span class="rn">Il bias della settimana · <em>#2</em></span><span class="rs">Le scorciatoie della mente</span></div></div>
     <p class="occ">Dopo una chiacchierata con qualcuno di nuovo</p>

diff --git a/carosselli/bias-02-liking-gap/kit-pubblicazione-bias-02.md b/carosselli/bias-02-liking-gap/kit-pubblicazione-bias-02.md
@@ -42,7 +42,7 @@ Come abbiamo calcolato le percentuali: con i dati pubblici dello studio 2 (84 pe
 
 ## Testo alternativo (una riga per immagine)
 
-1. Copertina WeSelf gialla, rubrica «Il bias della settimana #2 · Le scorciatoie della mente». Illustrazione: davanti a un caffè con la tenda a righe, due persone si allontanano dopo una chiacchierata, guardandosi indietro. Una pensa «Avrò parlato troppo…» con 2 cuori su 5; l'altra sorride e pensa «Che bella chiacchierata!» con 5 cuori su 5. Testo: «Dopo una chiacchierata con qualcuno di nuovo. Il liking gap. Dopo una conversazione, molte persone pensano di essere piaciute meno di quanto sia successo davvero.»
+1. Copertina WeSelf gialla, rubrica «Il bias della settimana #2 · Le scorciatoie della mente». Immagine realistica al tramonto: davanti a un piccolo caffè con la tenda a righe blu e bianche, accanto a un tavolino con due tazzine ancora fumanti, un ragazzo con un maglione verde acqua e una ragazza con un maglione corallo si allontanano in direzioni opposte, guardandosi indietro. Il ragazzo pensa «Avrò parlato troppo…», con 2 cuori su 5; la ragazza sorride e pensa «Che bella chiacchierata!», con 5 cuori su 5. Testo: «Dopo una chiacchierata con qualcuno di nuovo. Il liking gap. Dopo una conversazione, molte persone pensano di essere piaciute meno di quanto sia successo davvero.»
 2. Succede a molti: «Avrò parlato troppo? Sarò sembrato noioso?» Dopo una chiacchierata con qualcuno di nuovo, c'è chi ripassa ogni frase. Nel 2018 un gruppo di ricerca ha chiamato questo errore «liking gap», il divario tra quanto pensiamo di essere piaciuti e quanto lo siamo davvero.
 3. Lo studio: a Yale, 84 studenti hanno parlato a coppie per cinque minuti con una persona mai vista prima; poi, separati, hanno risposto con un voto da 1 a 7 a due serie di domande: che cosa provo io per l'altro, che cosa penso provi l'altro per me.
 4. I numeri, tradotti: il 63% è piaciuto più di quanto pensasse, il 24% ha indovinato, il 13% ha pensato di essere piaciuto di più. Confronto coppia per coppia fatto da noi sui dati pubblici degli autori.
@@ -62,4 +62,5 @@ Come abbiamo calcolato le percentuali: con i dati pubblici dello studio 2 (84 pe
 - **Slide 7:** «osservatori esterni» sono due assistenti di ricerca che non conoscevano l'ipotesi (studio 1b, 15 video). Timidezza: nello studio 1 il divario è stato di 1,14 punti tra i più timidi, 0,55 tra quelli nella media, 0,25 (non significativo) tra i meno timidi.
 - **Limiti:** gli autori scrivono che le analisi non erano preregistrate; i dati sono pubblici. Il fenomeno è stato poi studiato da altri gruppi (per esempio nei bambini: «Who Will Be My Friend? The Role of the Liking Gap in Preschooler Friend Selection»), che non abbiamo letto.
 - **Tema non sensibile** per le nostre regole: nessun rimando di supporto obbligatorio.
-- **Illustrazione:** disegnata da noi. Se il fondatore manda la versione generata con Canva (link nel thread), la sostituiamo mantenendo i fumetti con i cuori.
+- **Illustrazione di copertina:** generata con Canva (strumento di immagini con IA) partendo dalla nostra illustrazione e con la palette WeSelf; salvata nel design Canva «WeSelf liking gap cover canvas» e nel repo come `illustrazione-canva.jpg`. I fumetti con i cuori sono nostri.
+- **Etichetta IA:** l'immagine è realistica e generata con l'IA. Su Instagram e Facebook, prima di pubblicare, attiva **«Etichetta IA»** (Impostazioni avanzate → «Aggiungi etichetta IA»), come chiede Meta per le immagini fotorealistiche generate con l'IA.
